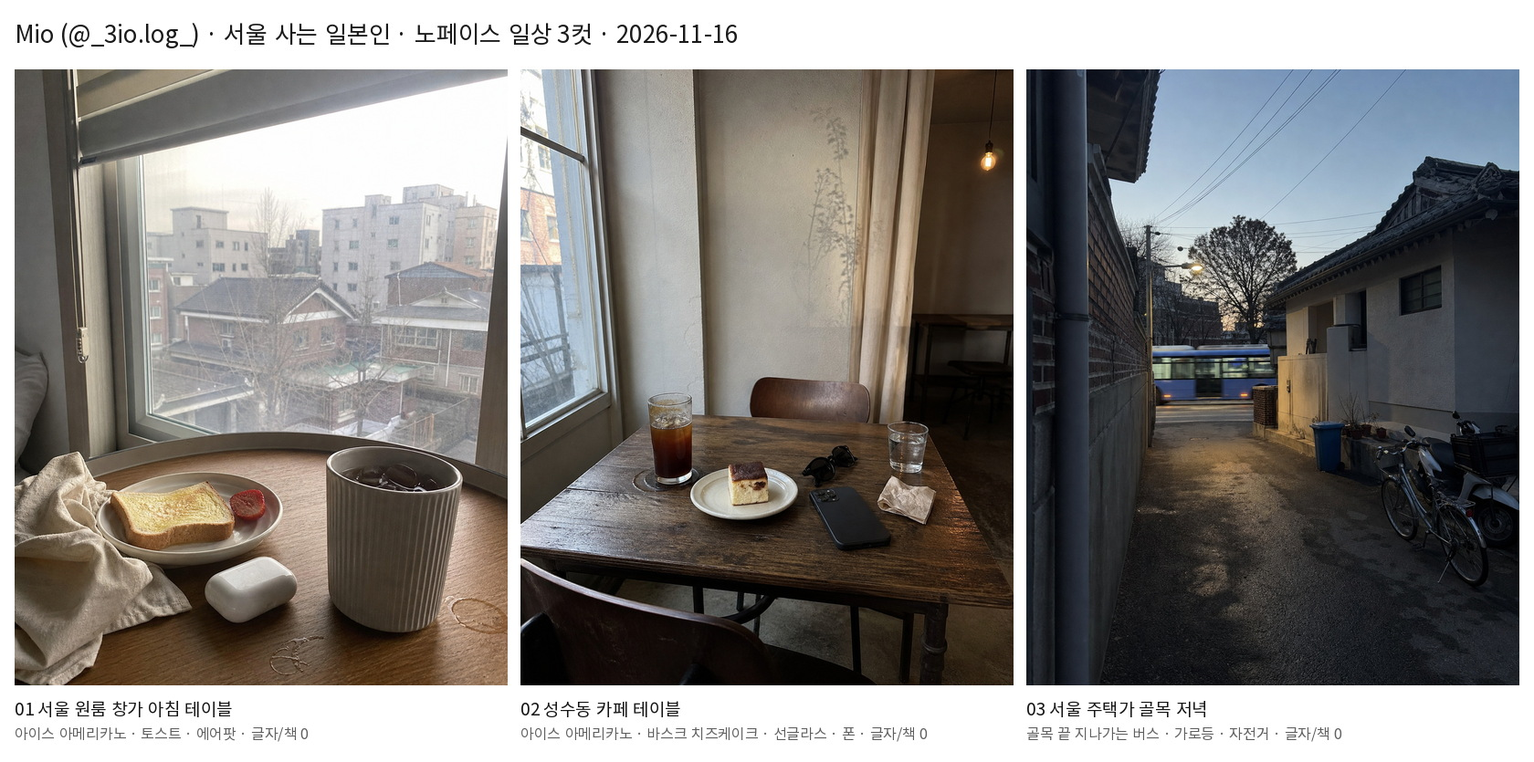
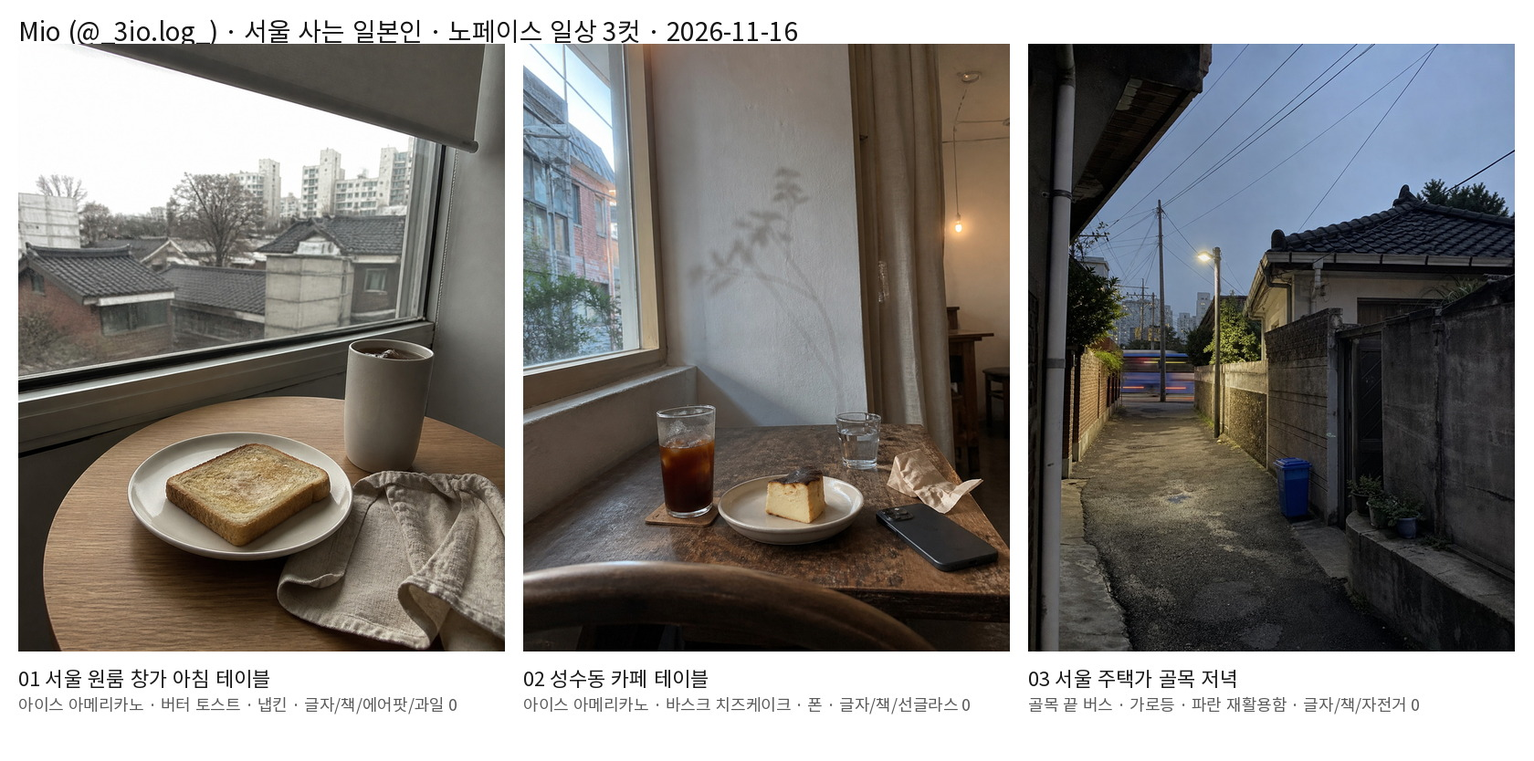
v3.2: regenerate Seoul 3 cuts (earbuds/half fruit/sunglasses/bicycle removed) + Korean-first captions
- 01: airpods case and half strawberry dropped (mushy soap blob / unidentified red lump)
- 02: sunglasses dropped (extra lens on the bridge)
- 03: near-camera bicycle and scooter dropped (frame/fork geometry off)
- pools: banned_subjects 15 -> 26, add mandatory_no_small_props, rewrite the 3 Seoul scenes
- captions/tags: Korean first + Japanese second line, SET A' gains Korean tags

diff --git a/prompt_randomizer/generate_prompts.py b/prompt_randomizer/generate_prompts.py
@@ -56,6 +56,11 @@ NO_TEXT = META.get(
     "no menu board, no price sign, no receipt, no poster with lettering, "
     "no labels on packaging, no signage on buildings.",
 )
+NO_PROPS = META.get(
+    "mandatory_no_small_props",
+    "Absolutely no earbuds, no earbud case, no small electronics lying on surfaces, "
+    "no fruit, no berries, no fork, no knife, no spoon, no cutlery.",
+)
 GLAMOUR = POOLS.get("glamour")
 
 NOFACE_TEMPLATE = (
@@ -63,7 +68,7 @@ NOFACE_TEMPLATE = (
     "Scene: {scene}. "
     "{lighting}. "
     "Everyday and imperfect: {imperfection}. Natural phone noise, ordinary exposure, "
-    "realistic texture, plain colour. {no_text} "
+    "realistic texture, plain colour. {no_text} {no_props} "
     "Vertical 4:5. No studio lighting, no bokeh, no cinematic colour grade, no HDR, "
     "no text, no watermark, no face visible."
 )
@@ -77,7 +82,7 @@ PERSON_TEMPLATE = (
     "Place: {place}. Expression: {expression}. Light: {lighting}. "
     "Everyday and imperfect: {imperfection}. "
     "Real skin with visible pores and small texture, light everyday makeup, "
-    "no beauty retouching, no skin smoothing, no glow. {no_text} "
+    "no beauty retouching, no skin smoothing, no glow. {no_text} {no_props} "
     "Vertical 4:5. No studio lighting, no bokeh, no cinematic colour grade, no HDR, "
     "no text, no watermark. "
     "Do not reproduce the reference pose, outfit, hairstyle or background."
@@ -147,6 +152,7 @@ def build_batch(seed, noface, person, mode="daily"):
                 device=dv["en"],
                 imperfection=rng.choice(imperfections),
                 no_text=NO_TEXT,
+                no_props=NO_PROPS,
             ),
             "combo": {"scene": sc["id"], "light": sc["light_ko"], "device": dv["ko"]},
         })
@@ -177,6 +183,7 @@ def build_batch(seed, noface, person, mode="daily"):
                     phone_text=phone_text, place=pl["en"], expression=ex["en"],
                     lighting=li["en"], device=dv["en"],
                     imperfection=rng.choice(imperfections), no_text=NO_TEXT,
+                    no_props=NO_PROPS,
                 ),
                 "combo": {"look": look["id"], "hairstyle": hs["id"], "clothing": cl["id"],
                           "shot": sh["id"], "place": pl["id"], "expression": ex["ko"],
@@ -216,6 +223,7 @@ def build_batch(seed, noface, person, mode="daily"):
                 lighting=li["en"], device=dv["en"],
                 imperfection=rng.choice(imperfections),
                 no_text=NO_TEXT,
+                no_props=NO_PROPS,
             ),
             "combo": {"hairstyle": hs["id"], "clothing": cl["id"], "shot": sh["id"],
                       "place": pl["id"], "expression": ex["ko"],
@@ -264,7 +272,7 @@ def check_batch(items):
 
 
 def main(argv=None):
-    ap = argparse.ArgumentParser(description="Mio feed random prompt generator (v3.1, Seoul / anti-AI-tell)")
+    ap = argparse.ArgumentParser(description="Mio feed random prompt generator (v3.2, Seoul / anti-AI-tell / no small props)")
     ap.add_argument("--seed", type=int, default=20261116)
     ap.add_argument("--noface", type=int, default=4, help="number of no-face daily cuts")
     ap.add_argument("--person", type=int, default=8, help="number of person cuts")

diff --git a/mio_feed_seoul/README.md b/mio_feed_seoul/README.md
@@ -1,89 +1,118 @@
 # 🇰🇷 미오(Mio) — 서울 사는 일본인 · 노페이스 일상 3컷 `@_3io.log_`
 
-기운님 피드백 — *"근데 책은 좀 그렇지않나 글자 완벽하지않을거아냐 ai 생성이 그리고 일본인인데 한국사는게 요즘 유행같던데"*
+기운님 피드백 ①(2026-11-16) — *"근데 책은 좀 그렇지않나 글자 완벽하지않을거아냐 ai 생성이 그리고 일본인인데 한국사는게 요즘 유행같던데"*
+기운님 피드백 ②(2026-11-16) — *"에어팟이랑 토마토 둘다 이상하잖아 제대로 검수란하냐 그리고 한글로도써야지"*
 
-→ **2026-11-16 v3.1**: 콘셉트를 **"도쿄 혼자 사는 일본인" → "한국(서울)에 거주하는 일본인 미오(Mio)"** 로 전환하고,
-**펼친 책·책등·간판·메뉴판처럼 확대하면 AI 가짜 글자가 들통나는 피사체를 전면 배제**한 노페이스 일상 3컷을 새로 만들었습니다.
+→ **2026-11-16 v3.2**: 3컷을 **전부 다시 뽑았습니다.** ① 뭉개지기 쉬운 소품(에어팟 케이스·반쪽 과일·커틀러리·선글라스·근거리 자전거)을 장면에서 제거 ② 캡션·해시태그를 **한국어 우선 + 일본어 병기**로 교체.
 
-- **제작 방식:** `../prompt_randomizer/` (v3.1 풀) + `images` CLI. 순수 장면 생성(레퍼런스·사람 없음)
+- **제작 방식:** `../prompt_randomizer/` (v3.2 풀) + `images` CLI. 순수 장면 생성(레퍼런스·사람 없음)
 - **규격:** 전 컷 1080×1350 (4:5) · 텍스트·워터마크 없음
 - **컨택트시트:** [`mio_seoul_grid.jpg`](mio_seoul_grid.jpg)
 
-## 1. 왜 책·글자를 뺐나
+## 1. 이번에 뭘 바꿨나 (v3.2)
 
-v2의 `02_noface_bookstore`(책등 클로즈업)와 `04_noface_morning_desk`(펼친 책)는 축소하면 멀쩡하지만,
-**인스타에서 두 번 탭해 확대하면 가짜 글자가 바로 드러납니다.** 페이지 위에 의미 없는 획이 빼곡히 박혀 있고
-문장이 성립하지 않아서, 계정 신뢰에 치명적입니다. 그래서 v3.1부터는 아래를 **노페이스·인물 컷 전부에서** 제외했습니다.
+| 컷 | 문제였던 것 | 확대해서 보면 | 조치 |
+| --- | --- | --- | --- |
+| 01 | 에어팟 케이스 + 접시 위 반쪽 딸기 | 케이스가 경첩 없는 **비누 덩어리**, 딸기가 **정체불명 붉은 덩어리**로 뭉개짐 | 소품 전면 배제 → 아이스 아메리카노(손잡이 없는 흰 컵) + 버터 토스트 한 조각 + 냅킨만 |
+| 02 | 선글라스 | 브리지에 **렌즈가 하나 더 붙어** 세 눈처럼 보임 | 선글라스 제거 후 재생성 |
+| 03 | 자전거·배달 스쿠터 | **프레임·포크·핸들 축이 어긋나** 형태가 성립하지 않음 | 근거리 자전거·스쿠터 제거 후 재생성 |
 
-| 배제 피사체 | 이유 |
+**금지 소품 (v3.2 신규)** — 손가락 다음으로 AI가 자주 망가뜨리는 것은 *작고 윤곽이 복잡한 사물*입니다.
+
+| 배제 | 대체 |
 | --- | --- |
-| 펼친 책·노트·잡지·신문 | 본문 글자가 100% 가짜 글리프로 나옴 |
-| 서가·책등 클로즈업 | 책등 제목이 전부 깨짐 |
-| 간판·메뉴판·가격표·영수증 | 한글·일본어 획이 뭉개지고 오탈자처럼 보임 |
-| 포장재 라벨·로고 | 브랜드 왜곡 + 가짜 글자 |
+| 무선 이어폰 케이스·에어팟 | 없음(테이블 비우기) |
+| 폰·충전기·소형 전자기기(테이블 위) | 컵·접시·천 |
+| 반쪽 딸기·토마토·베리류 | 통과일 1개 또는 과일 없이 |
+| 포크·나이프·스푼 | 커틀러리 없이 |
+| 선글라스 | 선글라스 없이 |
+| 근거리 자전거·스쿠터 | 실루엣이 먼 배경이면 허용 |
 
-대신 **컵·접시·음식·가구·창밖 풍경·골목·가로등·자전거**처럼 글자가 원래 없는 피사체로 장면을 채웠습니다.
-프롬프트에는 `No printed words anywhere in the frame ...` 문장이 강제로 들어가고, `--check`가 `meta.banned_subjects` 15개를 검사합니다.
+프롬프트에는 아래 문장이 강제로 들어가고, `pools.json`의 `meta.mandatory_no_small_props` + `banned_subjects` 26개를 `--check`가 검사합니다.
+
+```txt
+Absolutely no earbuds, no earbud case, no AirPods, no small electronics lying on surfaces,
+no fruit, no berries, no half-cut fruit, no fork, no knife, no spoon, no cutlery.
+```
 
 ## 2. 3컷 목록
 
 | # | 파일 | 장면 | 핵심 소품 | 조명 | 카메라 |
 | --- | --- | --- | --- | --- | --- |
-| 01 | `01_seoul_morning_table.jpg` | 서울 원룸 창가 아침 테이블 (창밖 서울 빌라·아파트) | 아이스 아메리카노 머그 · 버터 토스트 · 딸기 반쪽 · 흰 이어폰 케이스 | 흐린 아침 창가 빛 | iPhone 15 Pro |
-| 02 | `02_seoul_cafe_dessert.jpg` | 성수동 카페 창가 테이블 | 아이스 아메리카노 · 바스크 치즈케이크 · 선글라스 · 엎어둔 폰 · 물컵 | 늦은 오후 창가 빛 + 약한 전구 | iPhone 16 Pro |
-| 03 | `03_seoul_evening_street.jpg` | 서울 주택가 골목 저녁 (기와 roof 집·벽돌 담장) | 골목 끝 지나가는 시내버스 · 가로등 · 자전거 · 파란 재활용함 | 해질녘 가로등 불빛 | iPhone 15 Pro |
+| 01 | `01_seoul_morning_table.jpg` | 서울 원룸 창가 아침 테이블 (창밖 서울 기와지붕·벽돌집·아파트) | 아이스 아메리카노(손잡이 없는 흰 컵) · 버터 토스트 한 조각 · 베이지 냅킨 | 흐린 아침 창가 빛 | iPhone 15 Pro |
+| 02 | `02_seoul_cafe_dessert.jpg` | 성수동 카페 창가 테이블 | 아이스 아메리카노 · 바스크 치즈케이크 · 엎어둔 폰 · 종이냅킨 · 물컵 | 늦은 오후 창가 빛 + 약한 전구 | iPhone 16 Pro |
+| 03 | `03_seoul_evening_street.jpg` | 서울 주택가 골목 저녁 (기와지붕 집·벽돌 담장) | 골목 끝 지나가는 시내버스 · 가로등 · 파란 재활용함 · 화분 | 해질녘 가로등 불빛 | iPhone 15 Pro |
 
-- **01**은 Day 1 첫 게시물용. 얼굴 0컷으로 "서울에서 혼자 사는 사람"의 아침을 먼저 보여줍니다.
-- **02**는 3일차 피드용. 성수·연남 감성 카페.
-- **03**은 2일차 스토리·4일차 피드용. 간판이 하나도 없는 주택가라 확대해도 깨질 글자가 없습니다.
+- **01**은 Day 1 첫 게시물. 얼굴 0컷으로 "서울에서 혼자 사는 사람"의 아침을 먼저 보여줍니다.
+- **02**는 Day 3 피드. 성수·연남 감성 카페.
+- **03**은 Day 2 스토리·Day 4 피드. 간판이 하나도 없는 주택가라 확대해도 깨질 글자가 없습니다.
 
-## 3. 프롬프트 원문 (재현용)
+## 3. 프롬프트 원문 (v3.2 재생성분 · 재현용)
 
-<details><summary><b>01</b> · 서울 원룸 창가 아침 테이블</summary>
+<details><summary><b>01</b> · 서울 원룸 창가 아침 테이블 (v3.2)</summary>
 
 ```txt
-A real amateur phone photo for an Instagram feed, taken on an iPhone 15 Pro main camera. Scene: a small round wooden table pushed against the window of a tiny Seoul one-room studio apartment, morning. On the table: a plain unbranded ribbed ceramic mug of iced americano with condensation and ice still visible, a plain white wireless earbud case with no logo lying beside it, a small white plate holding one slice of buttered toast and half a strawberry, a crumpled beige cotton napkin. Outside the window, seen through slightly dirty glass and a half-drawn blind, ordinary low-rise Seoul villa houses and a few pale apartment blocks in the middle distance with a bare tree; every building surface is plain concrete or brick with no shop signs, no banners, no lettering and no numbers anywhere. Flat cool overcast morning daylight from the window. Everyday and imperfect: the framing is slightly crooked, the mug sits off-centre and part of it is near the frame edge, the top right corner is overexposed by the window, there are a couple of water rings on the wood. Natural phone noise, ordinary exposure, realistic texture, plain muted colour. Vertical 4:5. Absolutely no text, no letters, no numbers, no signage, no logos, no labels, no book, no magazine, no paperwork, no screen content, no watermark, no face, no people, no hands.
+A real amateur phone photo for an Instagram feed, taken on an iPhone 15 Pro main camera. Scene: a small round wooden table pushed against the window of a tiny Seoul one-room studio apartment on an overcast winter morning. On the table there are only three things: a plain handleless white ceramic tumbler filled with iced americano, a few ice cubes floating at the top and light condensation on the outside; a plain white round ceramic plate holding one single square slice of buttered toast, nothing else on the plate; and a crumpled beige cotton napkin beside the plate. The wood surface is clean and dry with no stains, no rings and no marks. Outside the window, seen through slightly dirty glass and a half-drawn grey roller blind, ordinary low-rise Seoul villa houses with dark tiled roofs and a few pale apartment blocks in the middle distance, bare winter trees; every building surface is plain concrete or brick with no shop signs, no banners, no lettering and no numbers anywhere. Flat cool overcast morning daylight from the window, the sky white and blown out at the top of the frame. Everyday and imperfect: the framing is slightly crooked, the cup sits off-centre near the right frame edge. Natural phone noise, ordinary exposure, realistic texture, plain muted colour. Vertical 4:5. Absolutely no text, no letters, no numbers, no signage, no logos, no labels, no book, no magazine, no paperwork, no screen, no watermark, no face, no people, no hands, no earbuds, no earbud case, no electronics, no phone, no fruit, no berries, no fork, no knife, no spoon, no cutlery.
 ```
 
 </details>
 
-<details><summary><b>02</b> · 성수동 카페 테이블 (1차본 폐기 후 재생성)</summary>
+<details><summary><b>02</b> · 성수동 카페 테이블 (v3.2, 선글라스 제거)</summary>
 
 ```txt
-A real amateur phone photo for an Instagram feed, taken on an iPhone 16 Pro main camera. Scene: a worn wooden table for two in a small corner cafe in Seongsu-dong, Seoul, late afternoon. On the table: a tall clear glass of iced americano with ice and condensation, a small square slice of basque cheesecake sitting alone on a plain cream ceramic plate, a pair of folded black sunglasses, a smartphone lying face down so only its dark back and its camera bump are visible, a crumpled paper napkin, a small glass of water. No cutlery anywhere on the table. The wall behind is plain painted concrete with a faint shadow of a plant; a plain beige linen curtain at the side; no menu board, no posters, no price signs, no lettering on any surface, one bare bulb hanging far in the back room. Flat late-afternoon daylight from a large window on the left, mixed with the dim warm bulb. Everyday and imperfect: part of a chair back blocks the bottom corner, the glass leaves a wet ring on the wood, the verticals lean a little and the table sits off-centre. Natural phone noise, ordinary exposure, realistic texture, plain muted colour. Vertical 4:5. Absolutely no text, no letters, no numbers, no signage, no logos, no labels, no book, no magazine, no screen content, no watermark, no face, no people, no hands.
+A real amateur phone photo for an Instagram feed, taken on an iPhone 16 Pro main camera. Scene: a worn wooden table for two in a small corner cafe in Seongsu-dong, Seoul, late afternoon. On the table: a tall clear glass of iced americano with ice and light condensation and a thin cardboard coaster under it, a small square slice of plain basque cheesecake with a toasted dark top sitting alone on a plain cream ceramic plate, a smartphone lying face down so only its dark back and its square camera bump are visible, a crumpled paper napkin, a small plain glass of water. No sunglasses anywhere, no cutlery anywhere. The wall behind is plain painted concrete with a faint soft shadow of a plant; a plain beige linen curtain at the side; no menu board, no posters, no price signs, no lettering on any surface; one bare bulb hanging far in the back room. Flat late-afternoon daylight from a large window on the left, mixed with the dim warm bulb. Everyday and imperfect: part of a chair back blocks the bottom corner, the verticals lean a little and the table sits off-centre. Natural phone noise, ordinary exposure, realistic texture, plain muted colour. Vertical 4:5. Absolutely no text, no letters, no numbers, no signage, no logos, no labels, no book, no magazine, no screen content, no watermark, no face, no people, no hands.
 ```
 
 </details>
 
-<details><summary><b>03</b> · 서울 주택가 골목 저녁</summary>
+<details><summary><b>03</b> · 서울 주택가 골목 저녁 (v3.2, 자전거·스쿠터 제거)</summary>
 
 ```txt
-A real amateur phone photo for an Instagram feed, taken on an iPhone 15 Pro main camera. Scene: a quiet narrow residential alley in a Seoul neighborhood at dusk, photographed from several steps back at eye level. Low brick and concrete walls, a small stucco house with a tiled roof, a blue plastic recycling bin, a few potted plants on a concrete stoop, a parked city bicycle and a small delivery scooter leaning against a wall, one street lamp just switched on casting a small pool of light, damp patches on the asphalt, overhead cables. At the far end the alley opens onto a wider road where a city bus passes as a soft blur. Every wall, shutter and surface is plain and empty with no shop signs, no banners, no posters, no address plates, no lettering and no numbers anywhere in the frame. Dim blue-grey dusk light with the single street lamp, the sky still pale above the roofline. Everyday and imperfect: the framing is slightly tilted, a downpipe cuts the left edge, the top of a wall is close to the frame edge, the far end is a little soft. Natural phone noise, ordinary exposure, realistic texture, plain muted colour. Vertical 4:5. Absolutely no text, no letters, no numbers, no signage, no logos, no labels, no watermark, no people close to the camera, no face.
+A real amateur phone photo for an Instagram feed, taken on an iPhone 15 Pro main camera. Scene: a quiet narrow residential alley in a Seoul neighbourhood at dusk, photographed from several steps back at eye level. Low brick and concrete walls, a small stucco house with a tiled roof, a blue plastic recycling bin, a few potted plants on a concrete stoop, one street lamp just switched on casting a small pool of light, damp patches on the asphalt, overhead cables. The alley is empty of people and vehicles except a city bus far away at the end, passing as a soft blur. Every wall, shutter and surface is plain and empty with no shop signs, no banners, no posters, no address plates, no lettering and no numbers anywhere in the frame. Dim blue-grey dusk light with the single street lamp, the sky still pale above the roofline. Everyday and imperfect: the framing is slightly tilted, a downpipe cuts the left edge, the far end is a little soft. Natural phone noise, ordinary exposure, realistic texture, plain muted colour. Vertical 4:5. Absolutely no text, no letters, no numbers, no signage, no logos, no labels, no watermark, no people close to the camera, no face, no bicycle, no scooter, no motorbike, no parked cars.
 ```
 
 </details>
 
-## 4. 검수 노트 (2026-11-16)
+## 4. 캡션 & 해시태그 — 한국어 우선 + 일본어 병기 (v3.2)
 
-전 컷 `read_file`로 직접 열어 **원본 크기 + 부분 확대 크롭** 두 단계로 육안 검수했습니다.
+| Day | 컷 | 캡션 (KR + JP) | 첫 댓글 태그 |
+| --- | --- | --- | --- |
+| 1 | `01_seoul_morning_table` | 서울에서 혼자 살고 있는 일본인 미오예요☕<br />아침엔 보통 이 자리에서 커피 마셔요.<br />はじめまして。ソウルで暮らしている日本人、澪です☕ | A′ |
+| 2 | `01` 크롭 + `03` | 좋은 아침☀ / 귀갓길 이 언덕, 꽤 좋아<br />おはよう☀ / 帰り道のこの坂、けっこう好き | – |
+| 3 | `02_seoul_cafe_dessert` | 서울 카페는 케이크가 커. 행복해🍰<br />ソウルのカフェ、ケーキが大きい。しあわせ🍰 | A′ |
+| 4 | `mio_v2_01_noface_dessert`(말차) / 스토리 `02` 크롭 | 말차 계절, 아직 끝나지 않았으면 좋겠어🍵<br />抹茶の季節、まだ終わらないでほしい🍵 | A′ |
 
-| 컷 | 1차 결과 | 조치 |
+**SET A′ (Day 1~4 기본 · v3.2 한국어 태그 추가)**
+
+```txt
+#서울일상 #한국생활 #서울자취 #서울카페 #일본인 #일상기록 #ソウル生活 #韓国暮らし #_3iolog
+```
+
+한국어 태그 6개(서울일상·한국생활·서울자취·서울카페·일본인·일상기록)로 국내 유입을 열고, 일본어 태그 2개로 원래 타깃을 유지합니다. 계정 전용 태그 `#_3iolog`는 고정.
+
+## 5. 검수 노트 (2026-11-16 v3.2)
+
+전 컷 `read_file`로 **원본 전체 + 소품별 100% 확대 크롭** 두 단계로 육안 검수했습니다. 「확대 크롭」은 컵·접시·음식·냅킨·테이블 위 소품·창밖 풍경을 각각 잘라 1000px 이상으로 키워 확인한 것입니다.
+
+| 컷 | 이번 검수 | 결과 |
 | --- | --- | --- |
-| 01 | 글자·책 0, 창밖 서울 빌라/벽돌집 자연스러움. 컵·이어폰 케이스 확대해도 로고·글자 없음 | **1차 통과** |
-| 02 | 전체 인상은 좋으나 **포크가 접시와 케이크 사이에서 형체가 깨짐**(날과 자루가 따로 놀고, 자루가 하나 더 있는 것처럼 보임) | **폐기 → 재생성.** 테이블에서 **커틀러리 전면 제거**(`No cutlery anywhere on the table.`) 후 통과 |
-| 03 | 간판 0, 기와 roof·벽돌 담장·파란 재활용함으로 서울 주택가 느낌 확실. 골목 끝 버스는 모션블러라 노선번호 판독 불가 | **1차 통과** |
+| 01 | 컵(1162px)·접시/토스트·냅킨·창밖 4개 크롭. 뭉개진 물체 0, 컵 손잡이 없음(형태 성립), 토스트·냅킨 결 정상, 창밖 기와지붕·벽돌집에 글자 0 | **통과** |
+| 02 | 글래스·케이크·폰 카메라 범프·냅킨·창밖 크롭. 선글라스 없음, 케이크에 뭉개진 덩어리 없음, 폰 카메라 모듈 형태 유지 | **통과** |
+| 03 | 재활용함·골목 끝 버스·기와지붕·담장 크롭. 자전거·스쿠터 없음, 버스는 모션블러로 노선번호 판독 불가, 벽면 글자 0 | **통과** |
+
+**폐기한 후보(참고)** — 01 1차(에어팟 케이스 비누화 + 딸기 뭉개짐), 01 후보B(컵 손잡이가 납작한 날처럼 뭉개짐), 01 후보C·D(창틀 아래에 실내외가 겹쳐 보이는 기하 오류, 크루아상 버전은 창밖에 파란 물체가 떠 보임), 02 1차(선글라스 세 눈), 03 1차(자전거 프레임 어긋남). 모두 버리고 위 3컷으로 확정했습니다.
 
 **공통 확인**
 
 - **가짜 글자:** 3컷 모두 프레임 안에 읽히는 글자 0. 창밖 건물(01)·골목 벽면(03)·카페 벽(02) 확대 크롭에서도 간판·주소판·포스터 없음.
-- **책:** 0컷. 01의 테이블은 컵·접시·케이스·냅킨뿐.
+- **뭉개지는 소품:** 에어팟·소형 전자기기·작은 과일·커틀러리·선글라스·근거리 자전거 0.
+- **책:** 0컷.
 - **AI 광택:** 3컷 모두 흐린 날 확산광·형광등 계열. 피부·금속 과광 없음, 화보 보케 없음, 폰 노이즈 유지.
-- **카메라:** 02의 폰 뒷면을 확대해 삼각 배치 렌즈 + 카메라 플레이트 확인(구형 단일 렌즈 아님).
 - **규격:** 전 컷 1080×1350 (4:5).
 
-## 5. 사용 규칙
+## 6. 사용 규칙
 
 - 얼굴 컷을 만들 때는 `338.jpg`(0도 수평 정면 마스터) 크롭본 `mio_master_clean.jpg`를 `--edit` 베이스로 씁니다.
-- **노페이스·인물 컷 모두 책·간판·메뉴판·영수증·라벨을 넣지 않습니다.** 프롬프트에는 `prompt_randomizer`의 `meta.mandatory_no_text` 문장을 그대로 붙이고 `--check`로 검사합니다.
+- **노페이스·인물 컷 모두 책·간판·메뉴판·영수증·라벨·뭉개지는 소품을 넣지 않습니다.** 프롬프트에는 `prompt_randomizer`의 `meta.mandatory_no_text` + `meta.mandatory_no_small_props` 문장을 그대로 붙이고 `--check`로 검사합니다.
 - 새 컷은 `prompt_randomizer/generate_prompts.py`로 뽑고, 생성 후 **두 번 탭 확대** 기준으로 글자·손가락·소품을 확인합니다.
-- 업로드 순서·캡션·해시태그는 노션 가이드의 **2일차~4일차 서울 계획표**를 따릅니다.
+- 업로드 순서·캡션·해시태그는 노션 가이드의 **Day 1~4 교체본(v3.2)**을 따릅니다.

diff --git a/README.md b/README.md
@@ -101,3 +101,17 @@ v2 12컷 중 **05·07·08·09·10·11·12 7컷을 폐기하고 다시 뽑았고,
 - **생성기 개정(v3.1):** `pools.json`의 `no_face_scenes` 18종·`places_person` 14종을 **서울 기준으로 재작성**하고,
   `meta.banned_subjects` 15개(open book · book spine · menu board · price sign · receipt · signboard …)와
   `meta.mandatory_no_text` 문장을 추가했습니다. `--check`가 `subject:` 위반을 잡아냅니다.
+
+## 🧴 2026-11-16 v3.2 업데이트 — 뭉개지는 소품 전면 배제 + 캡션 한국어 우선
+
+기운님 지적 *"에어팟이랑 토마토 둘다 이상하잖아 제대로 검수란하냐 그리고 한글로도써야지"* 에 따라
+서울 노페이스 3컷을 **전부 다시 뽑고**, 캡션·해시태그를 **한국어 우선 + 일본어 병기**로 바꿨습니다.
+
+- **[`mio_feed_seoul/`](mio_feed_seoul/)** — 3컷 전면 재생성(전 컷 1080×1350, 4:5), 컨택트시트 [`mio_seoul_grid.jpg`](mio_feed_seoul/mio_seoul_grid.jpg) 교체.
+  - **01:** 에어팟 케이스(찌그러진 비누) + 반쪽 딸기(뭉개진 덩어리) 제거 → 손잡이 없는 흰 컵의 아이스 아메리카노 + 버터 토스트 한 조각 + 냅킨
+  - **02:** 선글라스(브리지에 렌즈가 하나 더 붙음) 제거
+  - **03:** 근거리 자전거·배달 스쿠터(프레임·포크 어긋남) 제거
+- **소품 금지 규칙(v3.2):** 에어팟·소형 전자기기·작은 과일(반쪽 딸기·토마토·베리류)·커틀러리·선글라스는 확대하면 형태가 무너집니다.
+  `meta.banned_subjects`를 **26개**로 늘리고 `meta.mandatory_no_small_props` 문장을 모든 프롬프트에 넣어 `--check`가 검사합니다.
+- **캡션·태그:** Day 1~4 캡션을 한국어 본문 + 일본어 둘째 줄로, SET A′는 `#서울일상 #한국생활 #서울자취 #서울카페 #일본인 #일상기록 #ソウル生活 #韓国暮らし #_3iolog`.
+- 컷별 프롬프트 원문·확대 검수 노트·확정 캡션: [`mio_feed_seoul/README.md`](mio_feed_seoul/README.md)

diff --git a/prompt_randomizer/README.md b/prompt_randomizer/README.md
@@ -140,3 +140,12 @@ check: clean (15 AI-gloss phrases + 12 safety phrases + 15 text/book subjects sc
 ```
 
 `places_person`은 `io`(`in`/`out`)와 `lights`(가능한 조명 목록)를 함께 넣고, 인물 구도에 특정 장소가 필요하면 `place_ids`에 `places_person`의 id를 넣습니다. 카메라는 최신 아이폰만 추가하세요 — 구형 기기나 필름 카메라는 이 풀의 목적(AI 티 제거)과 반대입니다.
+
+## 🧴 v3.2 (2026-11-16) — 뭉개지는 소품 금지
+
+기운님 지적 *"에어팟이랑 토마토 둘다 이상하잖아 제대로 검수란하냐"* 반영.
+
+- `meta.banned_subjects` 15 → **26개**: `earbuds` · `earbud case` · `airpods` · `wireless charging case` · `cutlery` · `fork` · `knife` · `spoon` · `half a strawberry` · `half a tomato` · `berries` 추가.
+- `meta.mandatory_no_small_props` 추가 — 모든 프롬프트에 `Absolutely no earbuds, no earbud case, no AirPods, no small electronics lying on surfaces, no fruit, no berries, no half-cut fruit, no fork, no knife, no spoon, no cutlery.` 문장이 붙습니다.
+- `no_face_scenes` 3종(서울 아침 테이블·성수 카페·주택가 골목)에서 해당 소품과 근거리 자전거·스쿠터·선글라스를 빼고 다시 썼습니다.
+- `--check`는 `15 AI-gloss phrases + 12 safety phrases + 26 text/book subjects`를 스캔합니다. v3.2 배치·glamour 배치 둘 다 `clean` 확인.
